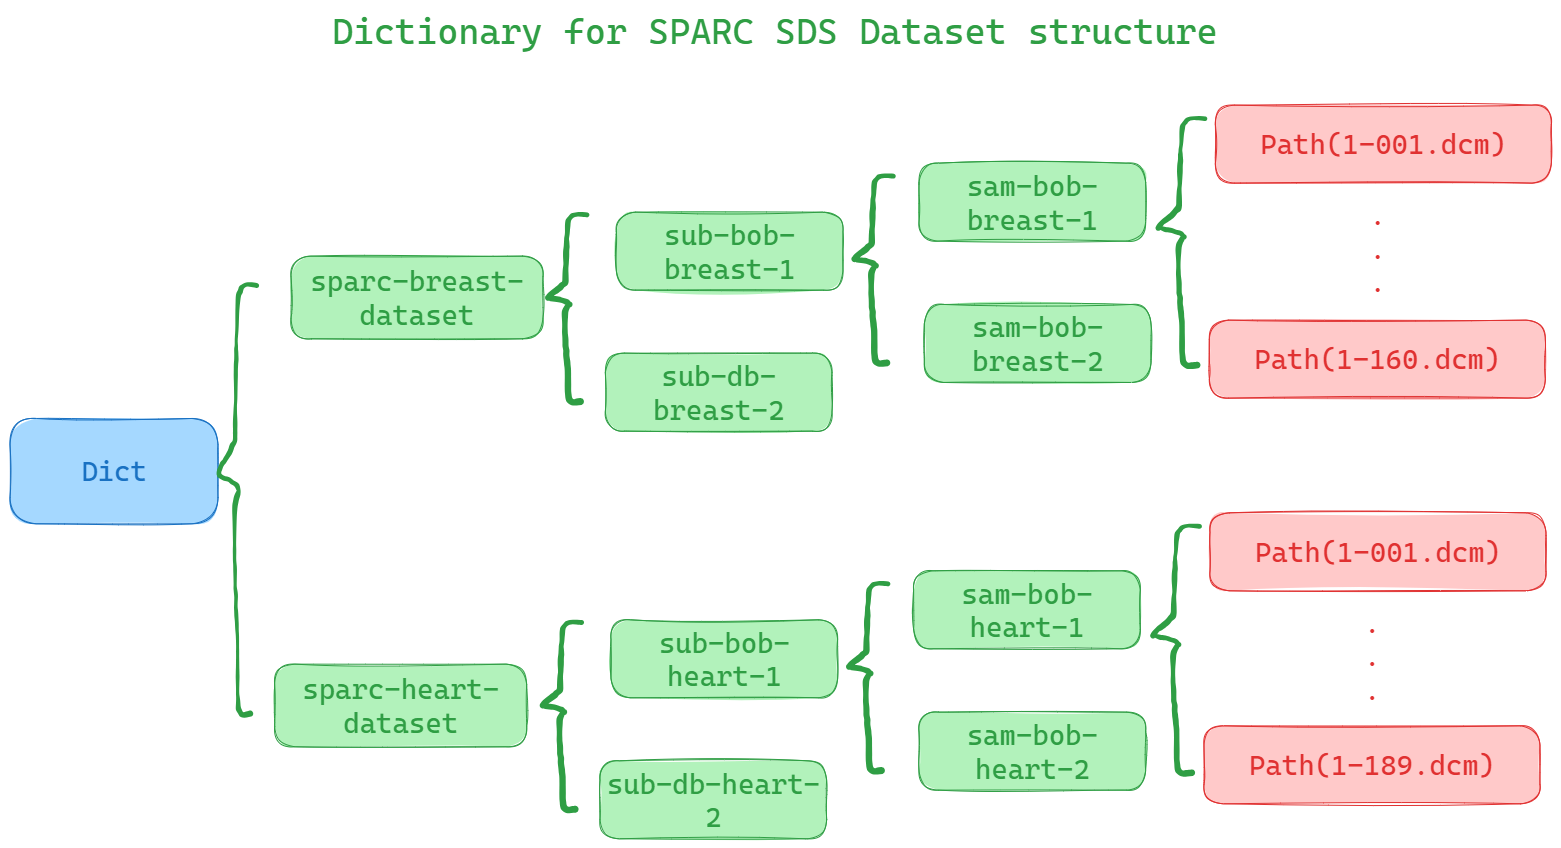
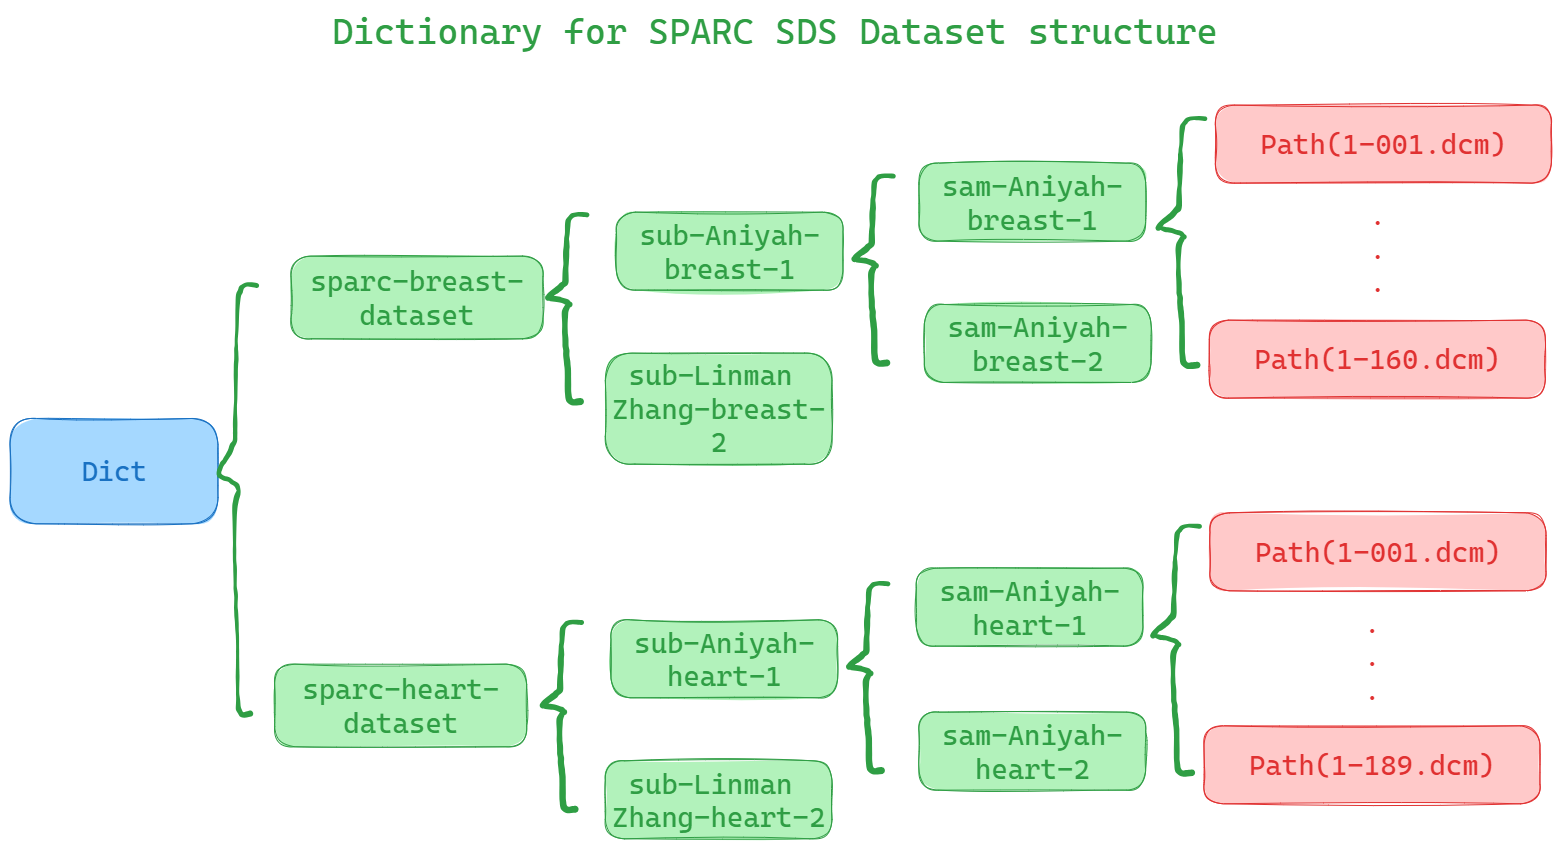
update docs

diff --git a/src/docs/ehr/fhir/hapi_fhir/tutorials/07-imagingstudy-resource.md b/src/docs/ehr/fhir/hapi_fhir/tutorials/07-imagingstudy-resource.md
@@ -8,13 +8,13 @@
 
 ### Scenario
 
-Volunteers Bob and Db recently had breast and heart MRIs taken at the Akron Hospital.The researcher at BioResearch Institute A stored the collected MRI data in SPARC SDS datasets. As shown in the figure below, the researcher stored Bob and Db's breast MRIs under the `primary` folder in the breast dataset, respectively.
+Volunteers Aniyah and Linman recently had breast and heart MRIs taken at the Akron Hospital.The researcher at BioResearch Institute A stored the collected MRI data in SPARC SDS datasets. As shown in the figure below, the researcher stored Aniyah and Linman's breast MRIs under the `primary` folder in the breast dataset, respectively.
 
 ![sparc imagingstudy relationship](/fhir/01-fhir-resources/04-sparc-imagingstudy-relationship.png)
 
 This figure shows the correspondence between the SPARC SDS dataset and the FHIR ImagingStudy Resource. From the figure we can see that each `subject/study` under the `primary` folder corresponds to an `ImagingStudy object`. The `sample` folder under each subject folder corresponds to the elements of the `Series array` of the ImagingStudy object. More over, the `dicom files` under each sample folder are stored one by one in the `ImagingStudy.Series.Instance` array.
 
-After we understand the relationship between `SPARC SDS dataset` and `FHIR ImagingStudy Resource`, now we can build the FHIR ImagingStudy resources for Bob and Db. Below image shows how we create the SPARC SDS dataset and FHIR resources. From image we can understand, the Bob and Db's breast and heart MRIs are stored in `sparc-breast-dataset` and `sparc-heart-dataset`. Then we can based on the diagram to convert the data to FHIR ImagingStudy resources.
+After we understand the relationship between `SPARC SDS dataset` and `FHIR ImagingStudy Resource`, now we can build the FHIR ImagingStudy resources for Aniyah and Linman. Below image shows how we create the SPARC SDS dataset and FHIR resources. From image we can understand, the Aniyah and Linman's breast and heart MRIs are stored in `sparc-breast-dataset` and `sparc-heart-dataset`. Then we can based on the diagram to convert the data to FHIR ImagingStudy resources.
 
 ![sparc imagingstudy dev](/fhir/01-fhir-resources/05-sparc-imagingstudy-dev.png)
 
@@ -89,10 +89,10 @@ Here, for this tutorial we can create two dummy patients for test. In a real dev
 The Patient here is used for reference in ImagingStudy resource.
 
 ```py
-bob = client.resource('Patient',
+Aniyah = client.resource('Patient',
                         name=[
                             {
-                                'given': ['Bob'],
+                                'given': ['Aniyah'],
                                 'family': '',
                                 'use': 'official',
                                 'prefix': ['Mr. '],
@@ -101,11 +101,11 @@ bob = client.resource('Patient',
                         gender="female",
                         brithDate='1995-09-22'
                         )
-db = client.resource('Patient',
+Linman = client.resource('Patient',
                         name=[
                             {
-                                'given': ['Db'],
-                                'family': '',
+                                'given': ['Linman'],
+                                'family': 'Zhang',
                                 'use': 'official',
                                 'prefix': ['Mr. '],
                             }
@@ -113,8 +113,8 @@ db = client.resource('Patient',
                         gender="female",
                         brithDate='1993-08-15'
                         )
-await bob.save()
-await db.save()
+await Aniyah.save()
+await Linman.save()
 ```
 
 ## Create ImagingStudy Resources
@@ -147,14 +147,14 @@ Here are some useful dicom tags for building ImagingStudy Resource:
 - (0018, 0010) Contrast/Bolus Agent
 - (0018, 0015) Body Part Examined
 
-### Let's create a ImagingStudy for Bob's breast study
+### Let's create a ImagingStudy for Aniyah's breast study
 
 #### Get the study/samples for SPARC dictionary
 
 - Get study/samples
 
 ```py
-bob_breast_study = sparc_fhir_structure["sparc_fhir_breast_dataset"]["sub-bob-breast-1"]
+Aniyah_breast_study = sparc_fhir_structure["sparc_fhir_breast_dataset"]["sub-Aniyah-breast-1"]
 ```
 
 #### Using pydicom to find header informations for ImagingStudy
@@ -164,7 +164,7 @@ Using pydicom to read the a series/sample dicom file header tags, we can get the
 Because of de-identification dicom data, some tags will missing. So we need use `try except` to catch the error.
 
 ```py
-dicom_file = pydicom.dcmread(bob_breast_study[0][0])
+dicom_file = pydicom.dcmread(Aniyah_breast_study[0][0])
 study_uid = dicom_file[(0x0020, 0x000d)].value
 
 try:
@@ -176,13 +176,13 @@ except:
 try:
     numberOfSeries = int(dicom_file[(0x0020, 0x1206)].value)
 except:
-    numberOfSeries = len(bob_breast_study)
+    numberOfSeries = len(Aniyah_breast_study)
 
 try:
     numberOfInstances = int(dicom_file[(0x0020, 0x1208)].value)
 except:
     numberOfInstances = 0
-    for sample in bob_breast_study:
+    for sample in Aniyah_breast_study:
         numberOfInstances += len(sample)
 ```
 
@@ -195,7 +195,7 @@ As for the `series modality code`, we can find it in [dicom website](http://dico
 ```py
 
 series = []
-for sample in bob_breast_study:
+for sample in Aniyah_breast_study:
     instances = []
     sample_dicom_file = pydicom.dcmread(sample[0])
     try:
@@ -222,7 +222,7 @@ for sample in bob_breast_study:
     })
 ```
 
-#### Create a Bob's breast ImagingStudy
+#### Create a Aniyah's breast ImagingStudy
 
 As we discussed the `identifier` before, we need use `"urn:dicom:uid"` system to store the `study uid` as the identifier value. Here, we can create two customise identifier for easily mapping the SPARC SDS dataset and FHIR ImagingStudy resource structure. So we can create two local identifier for the SPARC SDS system: `urn:sparc_study:uid` and `urn:sparc_dataset:uid`.
 
@@ -238,7 +238,7 @@ imagingResource = client.resource('ImagingStudy',
             {
                 "use": 'temp',
                 "system": "urn:sparc_study:uid",
-                "value": f"urn:uid:{"sub-bob-breast-1" + '-' + study_uid}"
+                "value": f"urn:uid:{"sub-Aniyah-breast-1" + '-' + study_uid}"
             },
             {
                 "use": 'temp',
@@ -247,7 +247,7 @@ imagingResource = client.resource('ImagingStudy',
             },
         ],
         status="available",
-        subject=bob.to_reference(),
+        subject=Aniyah.to_reference(),
         started=started_time,
         numberOfSeries=numberOfSeries,
         numberOfInstances=numberOfInstances,
@@ -299,19 +299,19 @@ for imagingstudy in imagingStudys:
 
 Please view [ImagingStudy Search Parameters](http://hl7.org/fhir/R4/imagingstudy.html#search) to find out the parameters for search in you senario.
 
-- Let's try search all studies/ImagingStudy Resources of a patient/volunteer `Bob` accross all SPARC Datasets. (Find all ImagingStudy Resources related to `Bob`)
+- Let's try search all studies/ImagingStudy Resources of a patient/volunteer `Aniyah` accross all SPARC Datasets. (Find all ImagingStudy Resources related to `Aniyah`)
 
 ```py
 patientsResourceSearchSet = client.resources("Patient")
-bob = await patientsResourceSearchSet.search(name=['bob']).first()
+Aniyah = await patientsResourceSearchSet.search(name=['Aniyah']).first()
 
 # find all studies of a patient cross all datasets
 imagingStudyResourceSearchSet = client.resources('ImagingStudy')
-imagingStudys = await imagingStudyResourceSearchSet.search(patient=bob.to_reference()).fetch_all()
+imagingStudys = await imagingStudyResourceSearchSet.search(patient=Aniyah.to_reference()).fetch_all()
 pprint(imagingStudys)
 ```
 
-- Find `Bob's` ImagingStudy Resources in which SPARC SDS dataset
+- Find `Aniyah's` ImagingStudy Resources in which SPARC SDS dataset
 
 ```py
  # find a patient in which datasets

diff --git a/src/docs/ehr/fhir/01-fhir-resources.md b/src/docs/ehr/fhir/01-fhir-resources.md
@@ -225,10 +225,9 @@ Accept: application/dicom+json
 
 The WADO-RS server then returns the complete DICOM metadata for the requested series.
 
-
 #### Identifier FHIR DataType
 
-Identifier systems are URIs that may be used in the system element of the Identifier datatype. 
+Identifier systems are URIs that may be used in the system element of the Identifier datatype.
 
 [HL7 Terminology](https://terminology.hl7.org/identifiers.html) provides a registry of Identifier systems which are actively curated by HL7 International. If a URI is defined in HL7 Terminology, it **SHOULD** be used in preference to any other Identifier.system. If the URI was defined in HL7 Terminology prior to an official release of the FHIR core specification, those URIs **SHALL** be used in preference to any other Identifier.system. E.g, all system URIs defined on terminology.hl7.org prior to the release of FHIR R5 **SHELL** be used in systems claiming conformance to FHIR R5.
 
